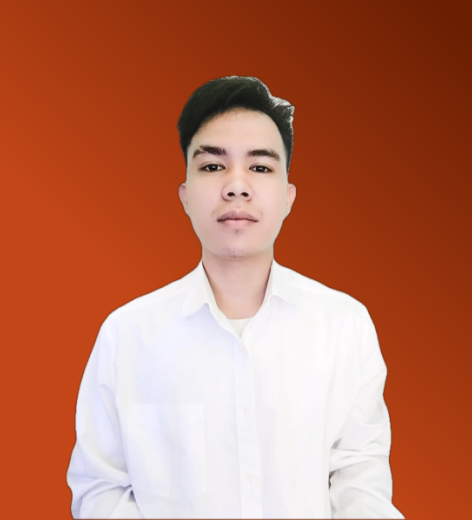
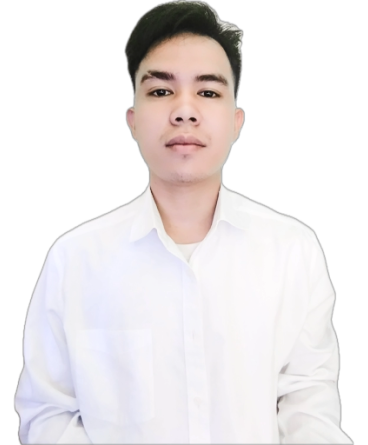
update

diff --git a/src/App.tsx b/src/App.tsx
@@ -34,7 +34,7 @@ export default function Portfolio() {
     <RootLayout>
       <div className="min-h-screen bg-[#0A0A0A] text-white">
         {/* Header Navigation */}
-        <nav className="fixed top-0 right-4 z-50 flex gap-2 bg-[#1A1A1A]/90 backdrop-blur-sm p-2 rounded-full mt-4">
+        <nav className="fixed top-0 right-4 z-50 flex gap-2 bg-[#1A1A1A]/90 backdrop-blur-sm p-2 rounded-full mt-4 !text-sm">
           <a
             href="https://drive.google.com/file/d/1Hx8Sc-OQcYnOBSTZXOdH-Ck85G7yV883/view?usp=drive_link"
             target="_blank"
@@ -66,30 +66,40 @@ export default function Portfolio() {
             initial={{ opacity: 0, y: 50 }}
             animate={{ opacity: 1, y: 0 }}
             transition={{ duration: 0.5 }}
-            className="pt-16 flex gap-8 flex-col md:flex-row"
+            className="pt-16 flex gap-8 flex-col "
           >
-            <Card className="md:bg-[#1A1A1A] w-full bg-transparent border-none border-[#2A2A2A] overflow-hidden basis-1/3 flex justify-end h-full self-end flex-row md:flex-col rounded-none md:rounded-lg sm:gap-4">
-              <img
-                src="./profile.png"
-                alt="J.M. Nicolas"
-                className="md:w-full object-cover md:flex-1 w-[100px] sm:w-[150px] rounded-md md:rounded-none"
-              />
-              <CardContent className="p-2 md:p-4 basis-[60%] flex-1 space-y-2">
-                <h1 className="font-bold text-lg text-white">J.M. Nicolas</h1>
-                <div className="flex items-center text-gray-300 text-xs lg:text-sm mt-1">
+            <Card className=" w-full bg-transparent border-none border-[#2A2A2A] overflow-hidden  flex justify-end h-full self-end flex-col  rounded-none sm:flex-row  ">
+              <div
+                style={{
+                  background:
+                    "linear-gradient(220.21deg, #691E02 3.31%, #C24617 63.27%)",
+                }}
+                className="!w-[150px] md:!w-[250px] rounded-2xl overflow-hidden mx-auto "
+              >
+                <img
+                  src="./profile.png"
+                  alt="Jay Mark Nicolas"
+                  className=" object-cover  rounded-md md:rounded-none m-auto translate-y-10"
+                />
+              </div>
+              <CardContent className="p-2 md:p-4 basis-[60%] flex-1 space-y-2 flex flex-col justify-center text-center sm:text-left">
+                <h1 className="font-medium text-lg sm:text-4xl text-white">
+                  Jay Mark Nicolas
+                </h1>
+                <div className="flex items-center text-gray-300 text-sm md:text-lg  mt-1 justify-center sm:justify-start">
                   <MapPin className="h-4 w-4 mr-1" />
                   Cagayan de Oro, Philippines
                 </div>
-                <div className="uppercase space-y-5  md:hidden">
-                  <h2 className="text-xs text-white capitalize">
+                <div className="uppercase my-3 md:!my-5 ">
+                  <h2 className="text-lg md:text-3xl text-white capitalize">
                     Software Engineer & Aspiring UX/UI Designer
                   </h2>
                 </div>
-                <div className="flex gap-2 mt-4 flex-wrap">
+                <div className="flex gap-2 mt-4 flex-wrap max-w-full md:max-w-[475px]">
                   <a
                     href="https://github.com/jaymarknicolas?tab=overview&from=2025-01-01&to=2025-01-16"
                     target="_blank"
-                    className=" md:flex-1"
+                    className=" flex-1"
                   >
                     <Button
                       size="sm"
@@ -103,7 +113,7 @@ export default function Portfolio() {
                   <a
                     href="https://www.linkedin.com/in/jay-mark-nicolas-157621258/"
                     target="_blank"
-                    className=" md:flex-1"
+                    className=" flex-1"
                   >
                     <Button
                       size="sm"
@@ -117,74 +127,6 @@ export default function Portfolio() {
                 </div>
               </CardContent>
             </Card>
-
-            <div className=" basis-1/3 flex flex-col gap-8 flex-1 space-y-2 justify-start">
-              <div className="uppercase space-y-2 xl:space-y-5 hidden md:block">
-                <h1 className="text-4xl lg:text-6xl xl:text-8xl font-bold text-white">
-                  SOFTWARE
-                  <br className="lg:block hidden" />{" "}
-                  <span className=" font-bold text-[#4A4A4A]">ENGINEER</span>
-                </h1>
-
-                {/* <p className="text-gray-300 mt-4 text-2xl font-bold tracking-wider">
-                  <span className="text-[#4A4A4A]"> & </span>
-                  ASPIRING
-                  <span className="text-[#4A4A4A]"> UX/UI DESIGNER</span>
-                </p> */}
-              </div>
-
-              <div className="flex flex-wrap justify-between gap-4">
-                <div>
-                  <div className="text-2xl lg:text-5xl font-bold text-white">
-                    +3
-                  </div>
-                  <div className="text-xs lg:text-lg text-gray-300">
-                    Years of Experience
-                  </div>
-                </div>
-                <div>
-                  <div className="text-2xl lg:text-5xl font-bold text-white">
-                    +5
-                  </div>
-                  <div className="text-xs lg:text-lg text-gray-300">
-                    Projects Completed
-                  </div>
-                </div>
-                <div>
-                  <div className="text-2xl lg:text-5xl font-bold text-white">
-                    +5
-                  </div>
-                  <div className="text-xs lg:text-lg text-gray-300">
-                    Happy Clients
-                  </div>
-                </div>
-              </div>
-
-              <div className="grid grid-cols-2 gap-4">
-                <Card className="bg-[#FF4D00] border-0 hover:bg-[#FF4D00]/90 transition-colors  h-fit md:h-[200px]">
-                  <CardContent className="p-4">
-                    <div className="w-8 h-8 border-2 border-white/90 flex items-center justify-center mb-8">
-                      <span className="text-white">W</span>
-                    </div>
-                    <h3 className="font-bold text-white text-sm md:text-2xl">
-                      WORDPRESS
-                    </h3>
-                    <p className="text-white/90  text-xs md:text-sm">
-                      In Progress ...
-                    </p>
-                  </CardContent>
-                </Card>
-                <Card className="bg-[#9EFF00] border-0 hover:bg-[#9EFF00]/90 transition-colors h-fit md:h-[200px]">
-                  <CardContent className="p-4 text-black">
-                    <div className="w-8 h-8 border-2 border-black flex items-center justify-center mb-8">
-                      <span>F</span>
-                    </div>
-                    <h3 className="font-bold text-sm md:text-2xl">FIGMA</h3>
-                    <p className="text-black/90 text-xs md:text-sm">Soon ...</p>
-                  </CardContent>
-                </Card>
-              </div>
-            </div>
           </motion.section>
 
           {/* About and Tech Stack Section */}

diff --git a/src/components/TechStack.tsx b/src/components/TechStack.tsx
@@ -21,6 +21,10 @@ import { IoLogoIonic } from "react-icons/io";
 import { FaSass } from "react-icons/fa";
 import { RiTailwindCssFill } from "react-icons/ri";
 import { FaBootstrap } from "react-icons/fa";
+import { GrGraphQl } from "react-icons/gr";
+import { RiSvelteFill } from "react-icons/ri";
+import { SiStorybook } from "react-icons/si";
+import { SiRedux } from "react-icons/si";
 
 interface TechItem {
   name: string;
@@ -28,33 +32,55 @@ interface TechItem {
 }
 
 const techStack: TechItem[] = [
-  { name: "React", icon: <RiReactjsFill className="w-4 h-4" /> },
-  { name: "Next.js", icon: <RiNextjsFill className="w-4 h-4" /> },
-  { name: "TypeScript", icon: <SiTypescript className="w-4 h-4" /> },
-  { name: "Node.js", icon: <FaNodeJs className="w-4 h-4" /> },
-  { name: "PHP", icon: <SiPhp className="w-4 h-4" /> },
-  { name: "Laravel", icon: <FaLaravel className="w-4 h-4" /> },
-  { name: "Wordpress", icon: <FaWordpress className="w-4 h-4" /> },
-  { name: "Wix", icon: <TbBrandWix className="w-4 h-4" /> },
-  { name: "React Native", icon: <TbBrandReactNative className="w-4 h-4" /> },
-  { name: "Angular", icon: <FaAngular className="w-4 h-4" /> },
-  { name: "Prisma ORM", icon: <SiPrisma className="w-4 h-4" /> },
-  { name: "MySQL", icon: <TbBrandMysql className="w-4 h-4" /> },
-  { name: "Shopify", icon: <FaShopify className="w-4 h-4" /> },
-  { name: "PostgreSQL", icon: <DiPostgresql className="w-4 h-4" /> },
-  { name: "CodeIgniter", icon: <DiCodeigniter className="w-4 h-4" /> },
-  { name: "Java", icon: <FaJava className="w-4 h-4" /> },
-  { name: "Spring Boot", icon: <BiLogoSpringBoot className="w-4 h-4" /> },
-  { name: "Python", icon: <FaPython className="w-4 h-4" /> },
-  { name: "Ionic", icon: <IoLogoIonic className="w-4 h-4" /> },
-  { name: "Sass", icon: <FaSass className="w-4 h-4" /> },
-  { name: "Tailwind CSS", icon: <RiTailwindCssFill className="w-4 h-4" /> },
-  { name: "Bootstrap", icon: <FaBootstrap className="w-4 h-4" /> },
+  { name: "React", icon: <RiReactjsFill className="w-4 h-4 max-w-[3rem]" /> },
+  { name: "Next.js", icon: <RiNextjsFill className="w-4 h-4 max-w-[3rem]" /> },
+  {
+    name: "TypeScript",
+    icon: <SiTypescript className="w-4 h-4 max-w-[3rem]" />,
+  },
+  { name: "Node.js", icon: <FaNodeJs className="w-4 h-4 max-w-[3rem]" /> },
+  { name: "PHP", icon: <SiPhp className="w-4 h-4 max-w-[3rem]" /> },
+  { name: "Laravel", icon: <FaLaravel className="w-4 h-4 max-w-[3rem]" /> },
+  { name: "Wordpress", icon: <FaWordpress className="w-4 h-4 max-w-[3rem]" /> },
+  { name: "Wix", icon: <TbBrandWix className="w-4 h-4 max-w-[3rem]" /> },
+  {
+    name: "React Native",
+    icon: <TbBrandReactNative className="w-4 h-4 max-w-[3rem]" />,
+  },
+  { name: "Angular", icon: <FaAngular className="w-4 h-4 max-w-[3rem]" /> },
+  { name: "Prisma ORM", icon: <SiPrisma className="w-4 h-4 max-w-[3rem]" /> },
+  { name: "MySQL", icon: <TbBrandMysql className="w-4 h-4 max-w-[3rem]" /> },
+  { name: "Shopify", icon: <FaShopify className="w-4 h-4 max-w-[3rem]" /> },
+  {
+    name: "PostgreSQL",
+    icon: <DiPostgresql className="w-4 h-4 max-w-[3rem]" />,
+  },
+  {
+    name: "CodeIgniter",
+    icon: <DiCodeigniter className="w-4 h-4 max-w-[3rem]" />,
+  },
+  { name: "Java", icon: <FaJava className="w-4 h-4 max-w-[3rem]" /> },
+  {
+    name: "Spring Boot",
+    icon: <BiLogoSpringBoot className="w-4 h-4 max-w-[3rem]" />,
+  },
+  { name: "Python", icon: <FaPython className="w-4 h-4 max-w-[3rem]" /> },
+  { name: "Ionic", icon: <IoLogoIonic className="w-4 h-4 max-w-[3rem]" /> },
+  { name: "Sass", icon: <FaSass className="w-4 h-4 max-w-[3rem]" /> },
+  {
+    name: "Tailwind CSS",
+    icon: <RiTailwindCssFill className="w-4 h-4 max-w-[3rem]" />,
+  },
+  { name: "Bootstrap", icon: <FaBootstrap className="w-4 h-4 max-w-[3rem]" /> },
+  { name: "GraphQL", icon: <GrGraphQl className="w-4 h-4 max-w-[3rem]" /> },
+  { name: "Svelte", icon: <RiSvelteFill className="w-4 h-4 max-w-[3rem]" /> },
+  { name: "Storybook", icon: <SiStorybook className="w-4 h-4 max-w-[3rem]" /> },
+  { name: "Redux", icon: <SiRedux className="w-4 h-4 max-w-[3rem]" /> },
 ];
 
 export function TechStack() {
   return (
-    <div className="grid grid-cols-3 gap-2">
+    <div className="grid grid-cols-2 md:grid-cols-3 gap-2">
       {techStack.map((tech, index) => (
         <Badge
           key={index}

diff --git a/src/components/RootLayout.tsx b/src/components/RootLayout.tsx
@@ -12,25 +12,25 @@ const RootLayout: React.FC<RootLayoutProps> = ({ children }) => {
     <>
       <Helmet>
         <html lang="en" />
-        <title>J.M. Nicolas - Software Engineer</title>
+        <title>Jay Mark Nicolas - Software Engineer</title>
         <meta
           name="title"
-          content="J.M. Nicolas - Software Engineer & Aspiring UX/UI Designer"
+          content="Jay Mark Nicolas - Software Engineer & Aspiring UX/UI Designer"
         />
         <meta
           name="description"
-          content="Welcome to the portfolio of J.M. Nicolas, a software engineer and aspiring UX/UI designer based in Cagayan de Oro, Philippines. Explore my projects and experiences."
+          content="Welcome to the portfolio of Jay Mark Nicolas, a software engineer and aspiring UX/UI designer based in Cagayan de Oro, Philippines. Explore my projects and experiences."
         />
 
         <meta property="og:type" content="website" />
         <meta property="og:url" content="https://www.jaymarknicolas.com/" />
         <meta
           property="og:title"
-          content="J.M. Nicolas - Software Engineer & Aspiring UX/UI Designer"
+          content="Jay Mark Nicolas - Software Engineer & Aspiring UX/UI Designer"
         />
         <meta
           property="og:description"
-          content="Welcome to the portfolio of J.M. Nicolas, a software engineer and aspiring UX/UI designer based in Cagayan de Oro, Philippines. Explore my projects and experiences."
+          content="Welcome to the portfolio of Jay Mark Nicolas, a software engineer and aspiring UX/UI designer based in Cagayan de Oro, Philippines. Explore my projects and experiences."
         />
         <meta
           property="og:image"
@@ -44,11 +44,11 @@ const RootLayout: React.FC<RootLayoutProps> = ({ children }) => {
         />
         <meta
           property="twitter:title"
-          content="J.M. Nicolas - Software Engineer & Aspiring UX/UI Designer"
+          content="Jay Mark Nicolas - Software Engineer & Aspiring UX/UI Designer"
         />
         <meta
           property="twitter:description"
-          content="Welcome to the portfolio of J.M. Nicolas, a software engineer and aspiring UX/UI designer based in Cagayan de Oro, Philippines. Explore my projects and experiences."
+          content="Welcome to the portfolio of Jay Mark Nicolas, a software engineer and aspiring UX/UI designer based in Cagayan de Oro, Philippines. Explore my projects and experiences."
         />
         <meta
           property="twitter:image"

diff --git a/src/data/projects.ts b/src/data/projects.ts
@@ -17,10 +17,10 @@ export const projects = [
       "A web-based system for tracking and managing construction projects using Laravel, MySQL, JavaScript, jQuery, and DataTables. Provided real-time project monitoring, data visualization, and reporting. Designed with MVC architecture for scalability and maintainability.",
     url: "https://construction-monitoring.jaymarknicolas.com/",
   },
-  {
-    name: "WidgetFlow – Customizable Productivity Dashboard",
-    description:
-      "A single-page application (SPA) built with Next.js, React, TypeScript, and Tailwind CSS, allowing users to create a personalized workspace with draggable widgets such as a to-do list, Pomodoro timer, and embeddable webpages. Integrated NextAuth for authentication and Prisma with PostgreSQL for data management.",
-    url: "https://widget-flow-snowy.vercel.app/",
-  },
+  // {
+  //   name: "WidgetFlow – Customizable Productivity Dashboard",
+  //   description:
+  //     "A single-page application (SPA) built with Next.js, React, TypeScript, and Tailwind CSS, allowing users to create a personalized workspace with draggable widgets such as a to-do list, Pomodoro timer, and embeddable webpages. Integrated NextAuth for authentication and Prisma with PostgreSQL for data management.",
+  //   url: "https://widget-flow-snowy.vercel.app/",
+  // },
 ];
